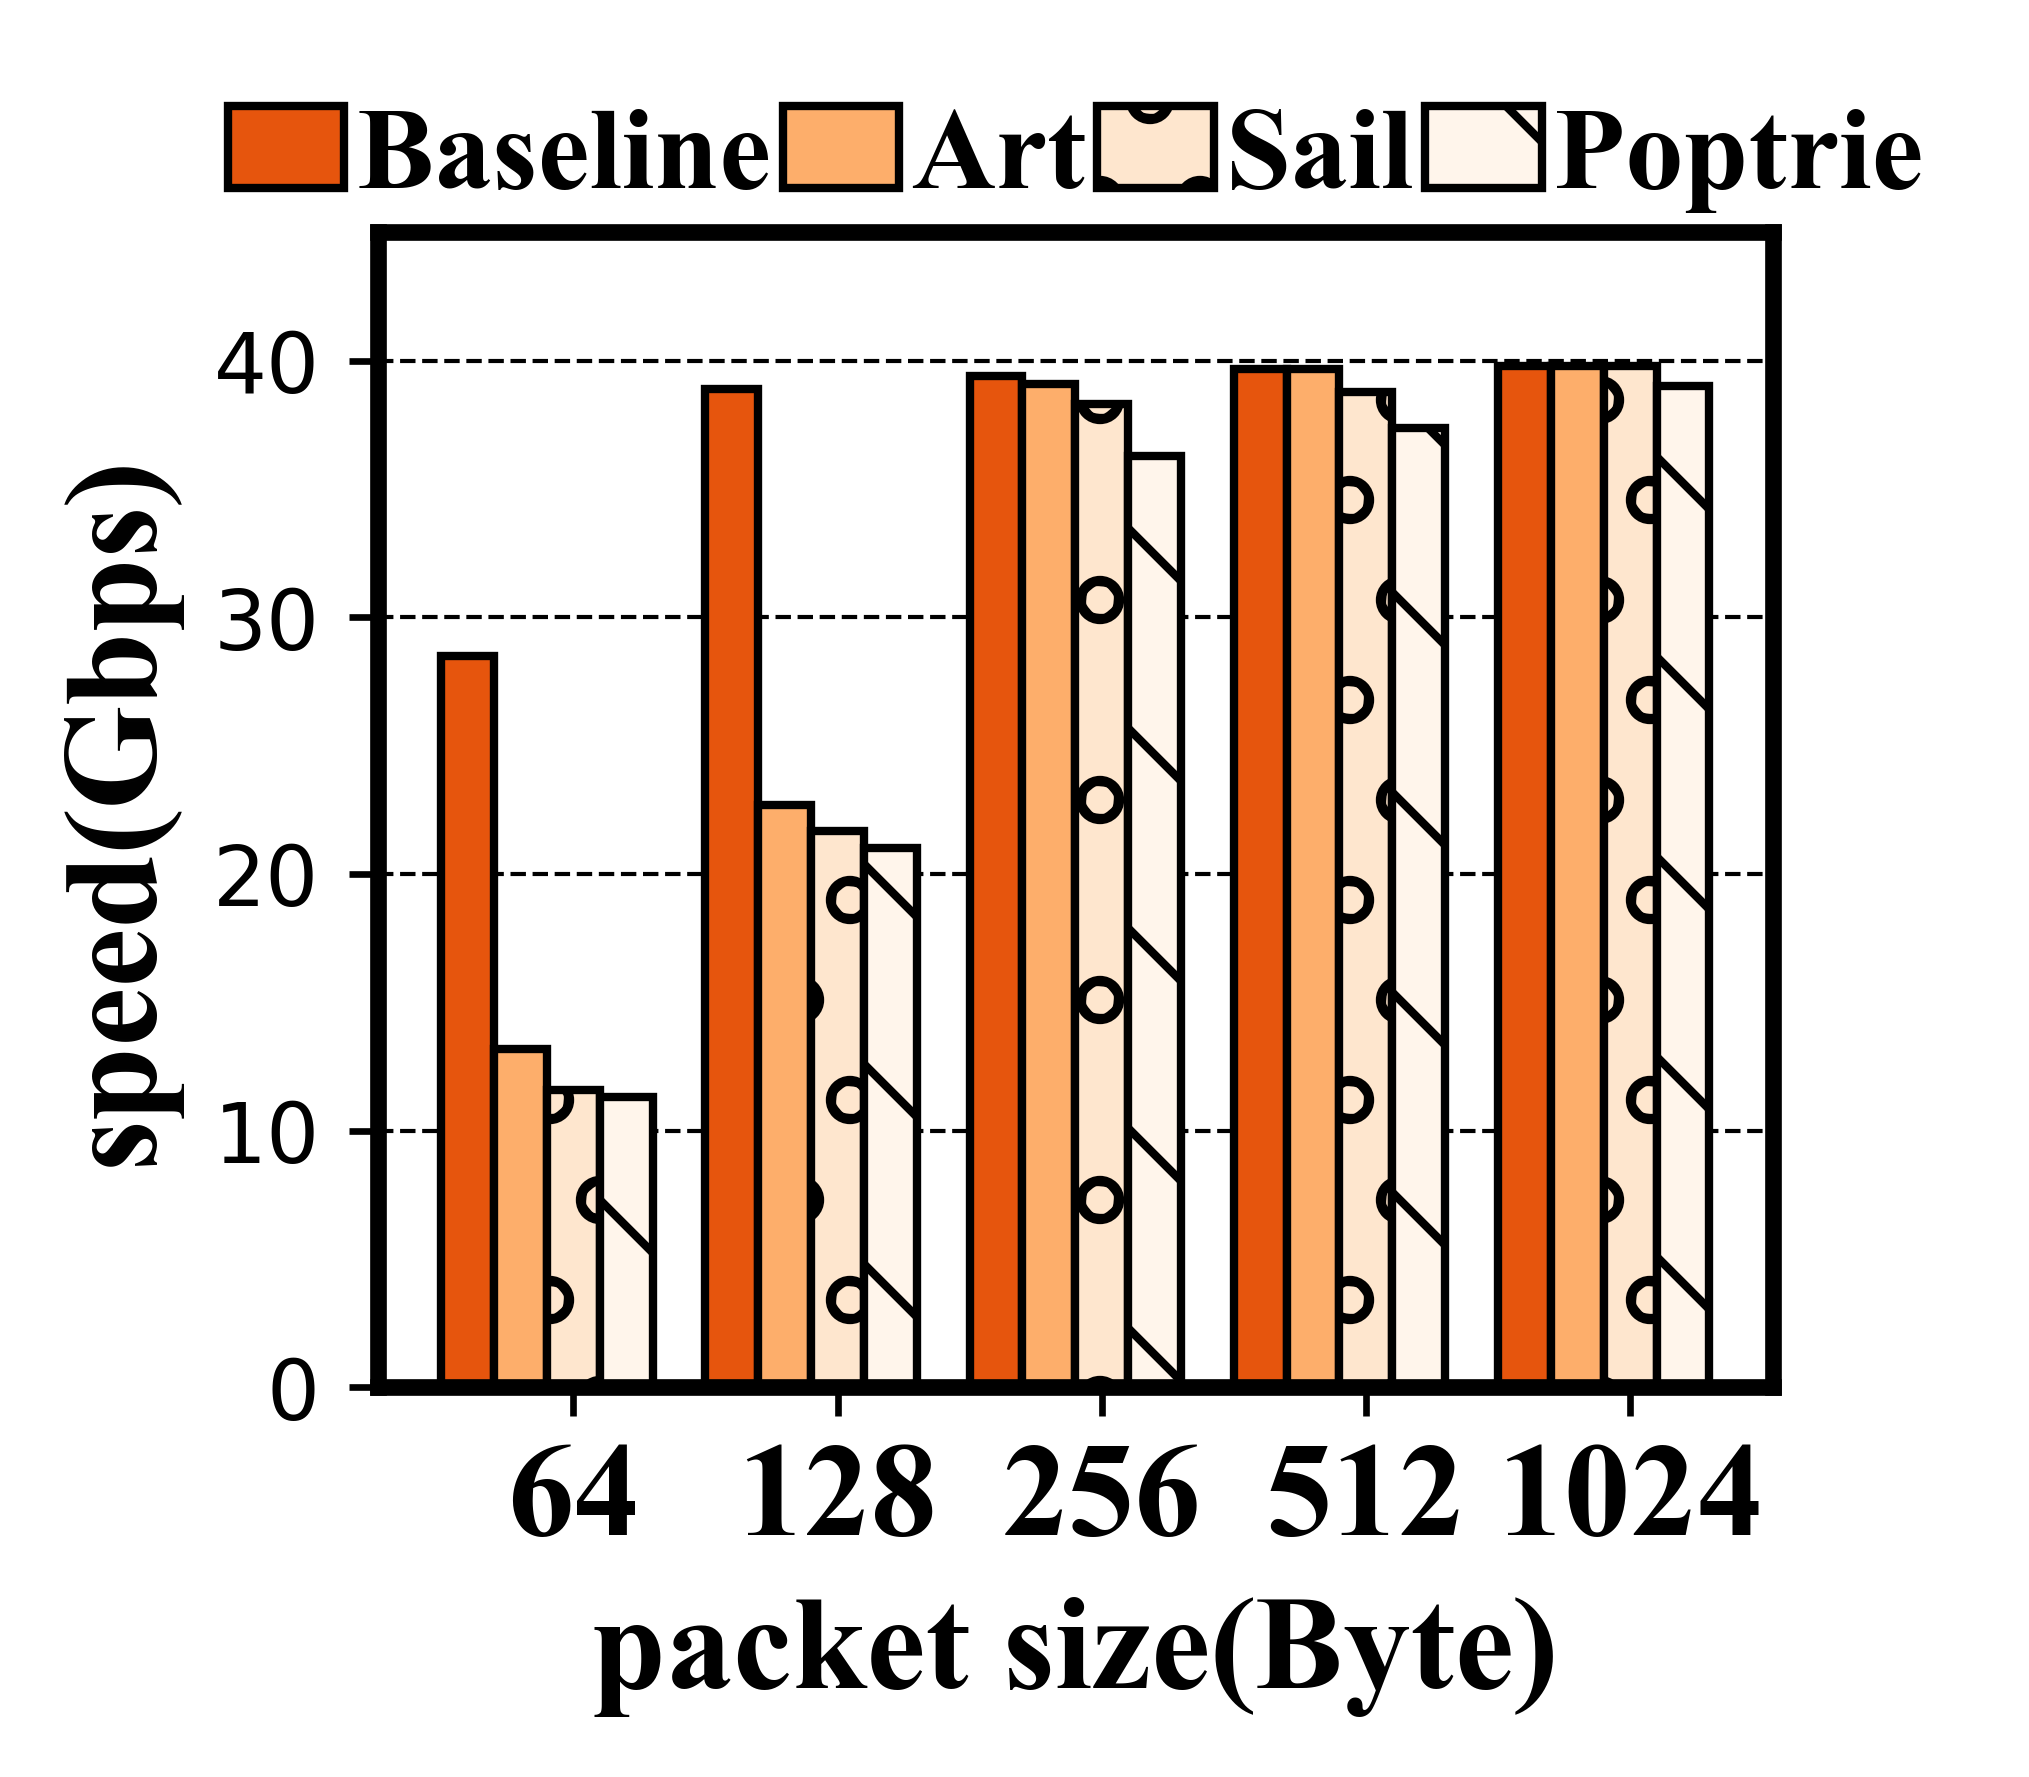
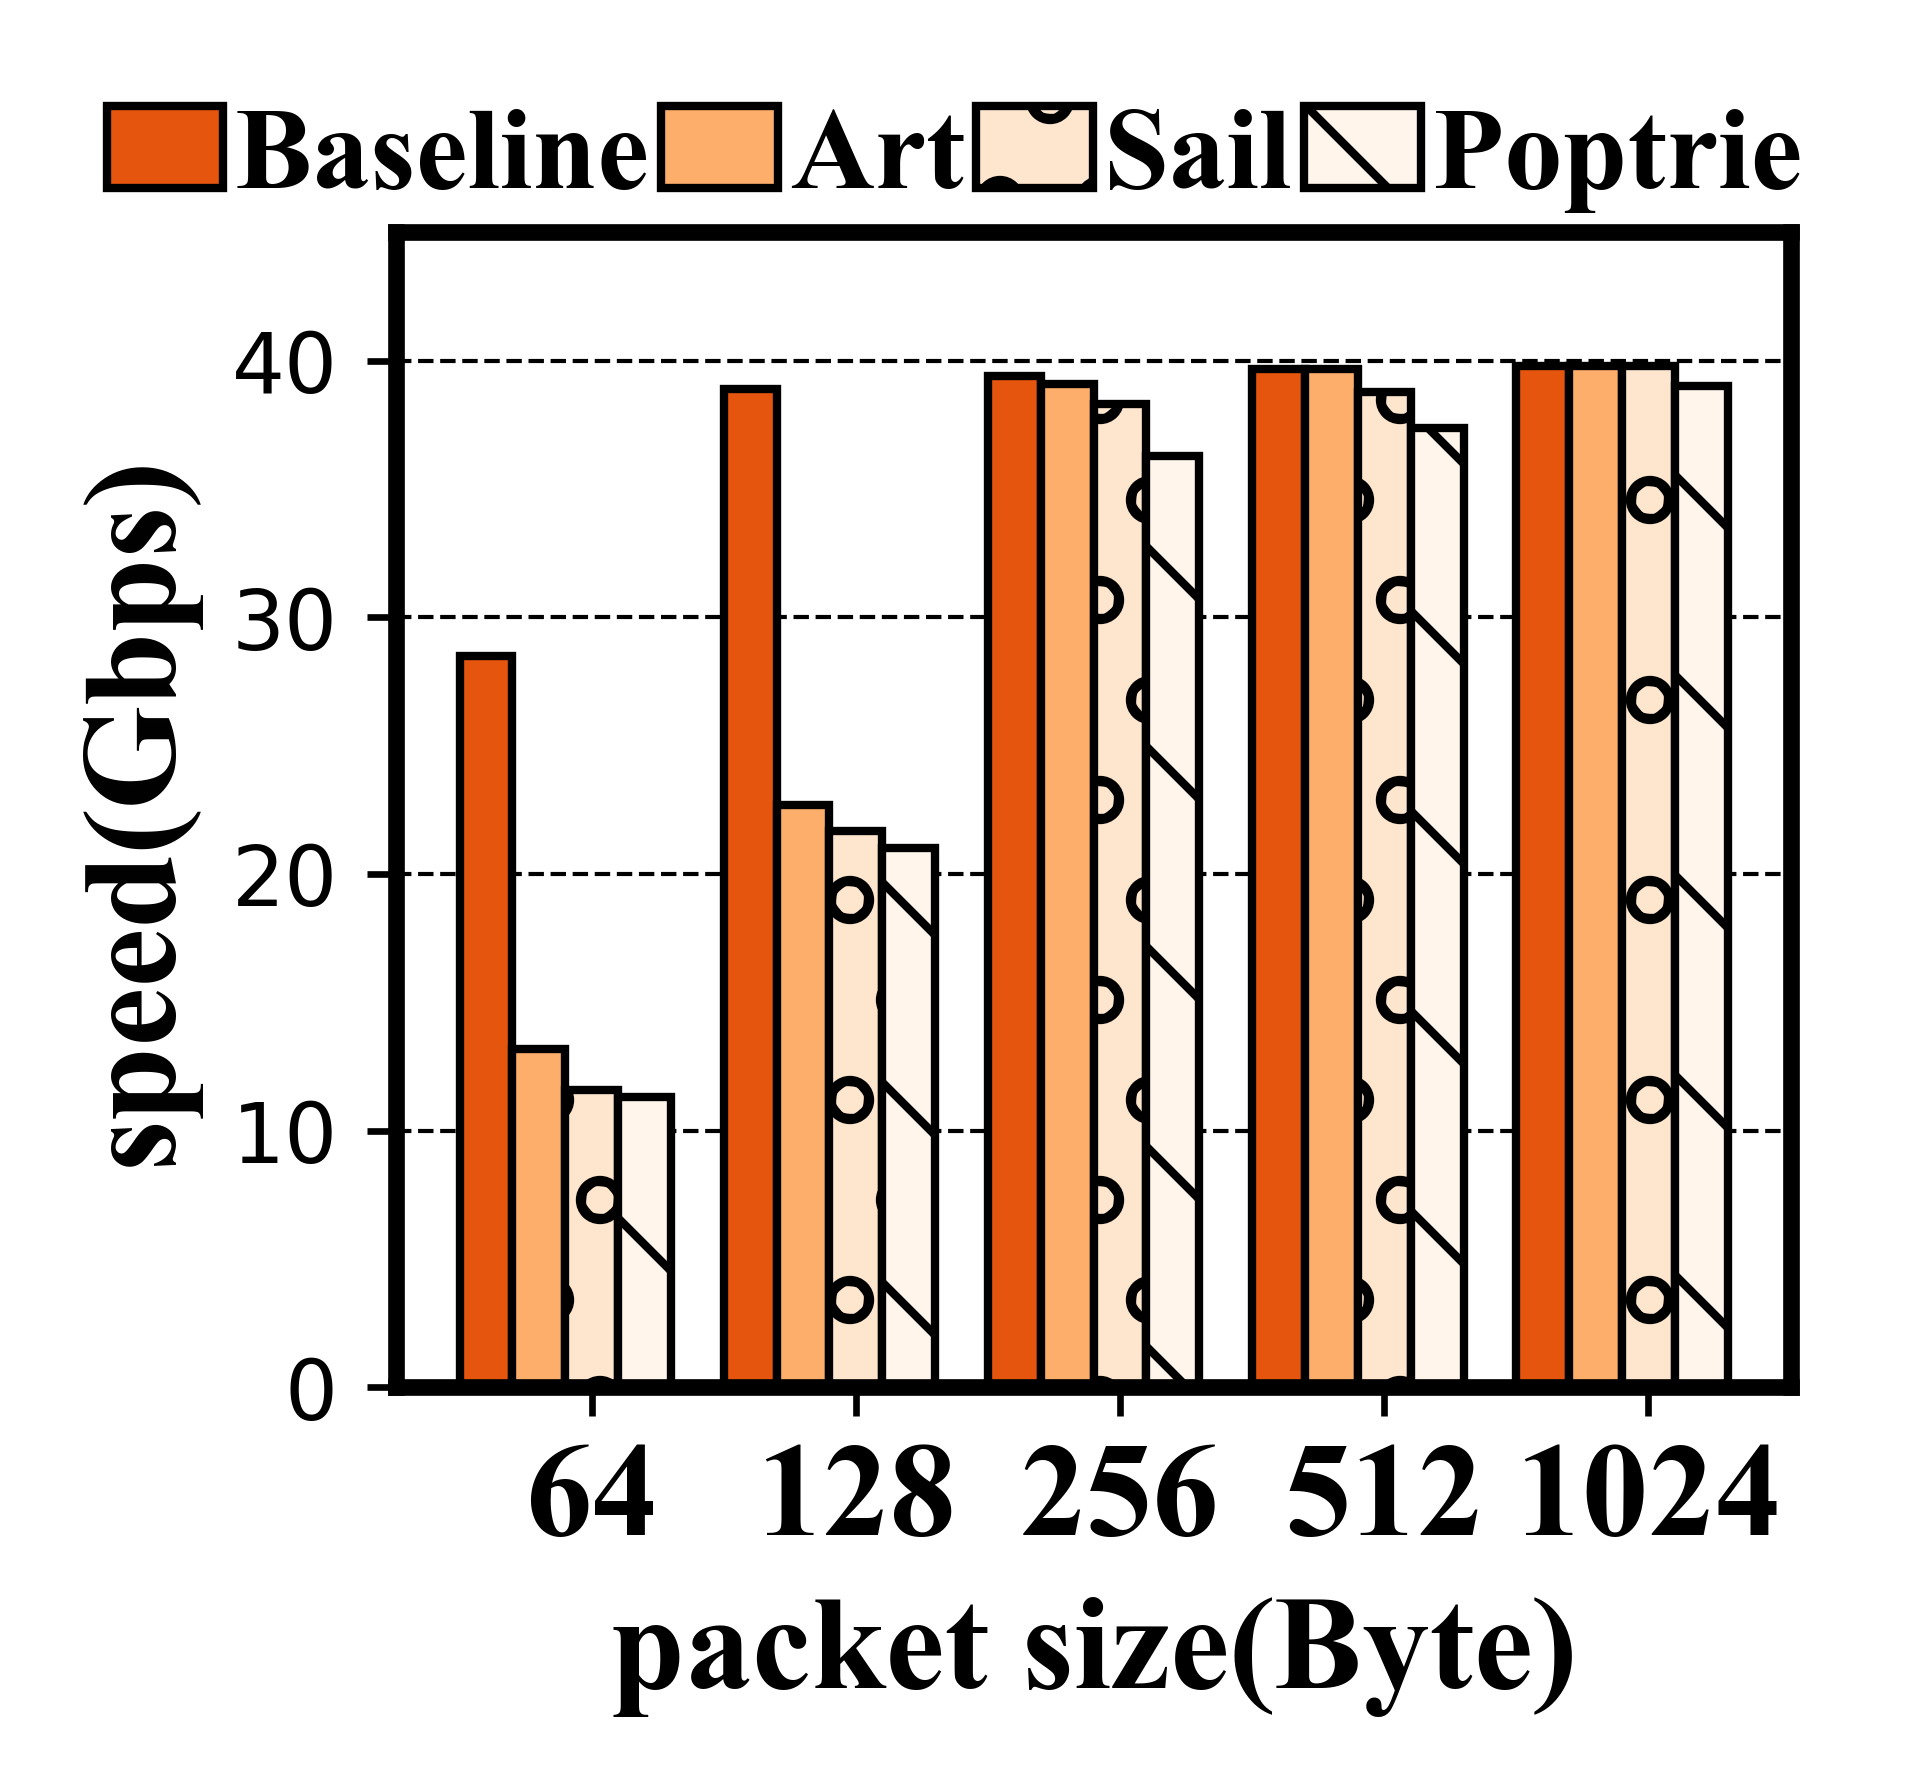
更新代码

diff --git a/example6.py b/example6.py
@@ -42,7 +42,7 @@ Plot.plot_xticks([1 + bar_width * 2, 2 + bar_width * 2, 3 + bar_width * 2, 4 + b
 Plot.plot_xlable('packet size(Byte)', font_size=16)
 Plot.plot_ylabel('speed(Gbps)', font_size=16)
 Plot.plot_ylim(0, 45)
-Plot.plot_legend([bar1, bar2, bar3, bar4], ['Baseline', 'Art', 'Sail', 'Poptrie'], ncol=4, bbox_to_anchor=(0.5, 1.2),
+Plot.plot_legend([bar1, bar2, bar3, bar4], ['Baseline', 'Art', 'Sail', 'Poptrie'], ncol=4, bbox_to_anchor=(0.4, 1.2),
                  loc='upper center', font_size=14)
 
 Save.save('example6')
